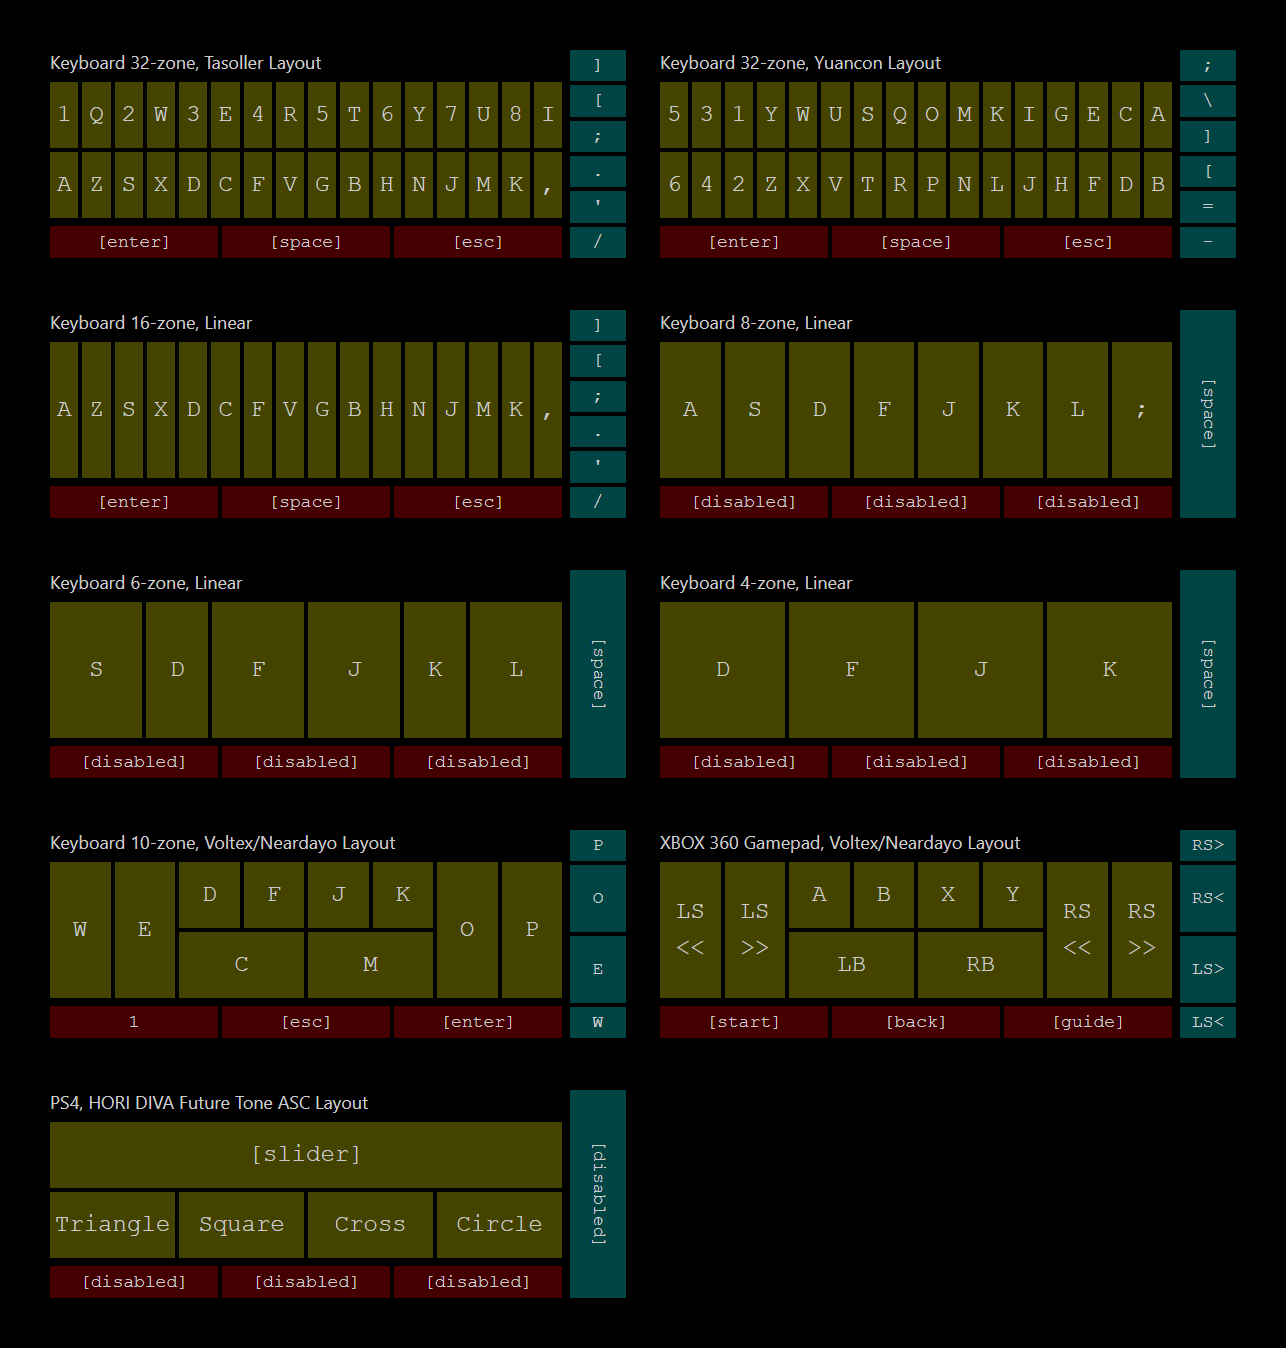
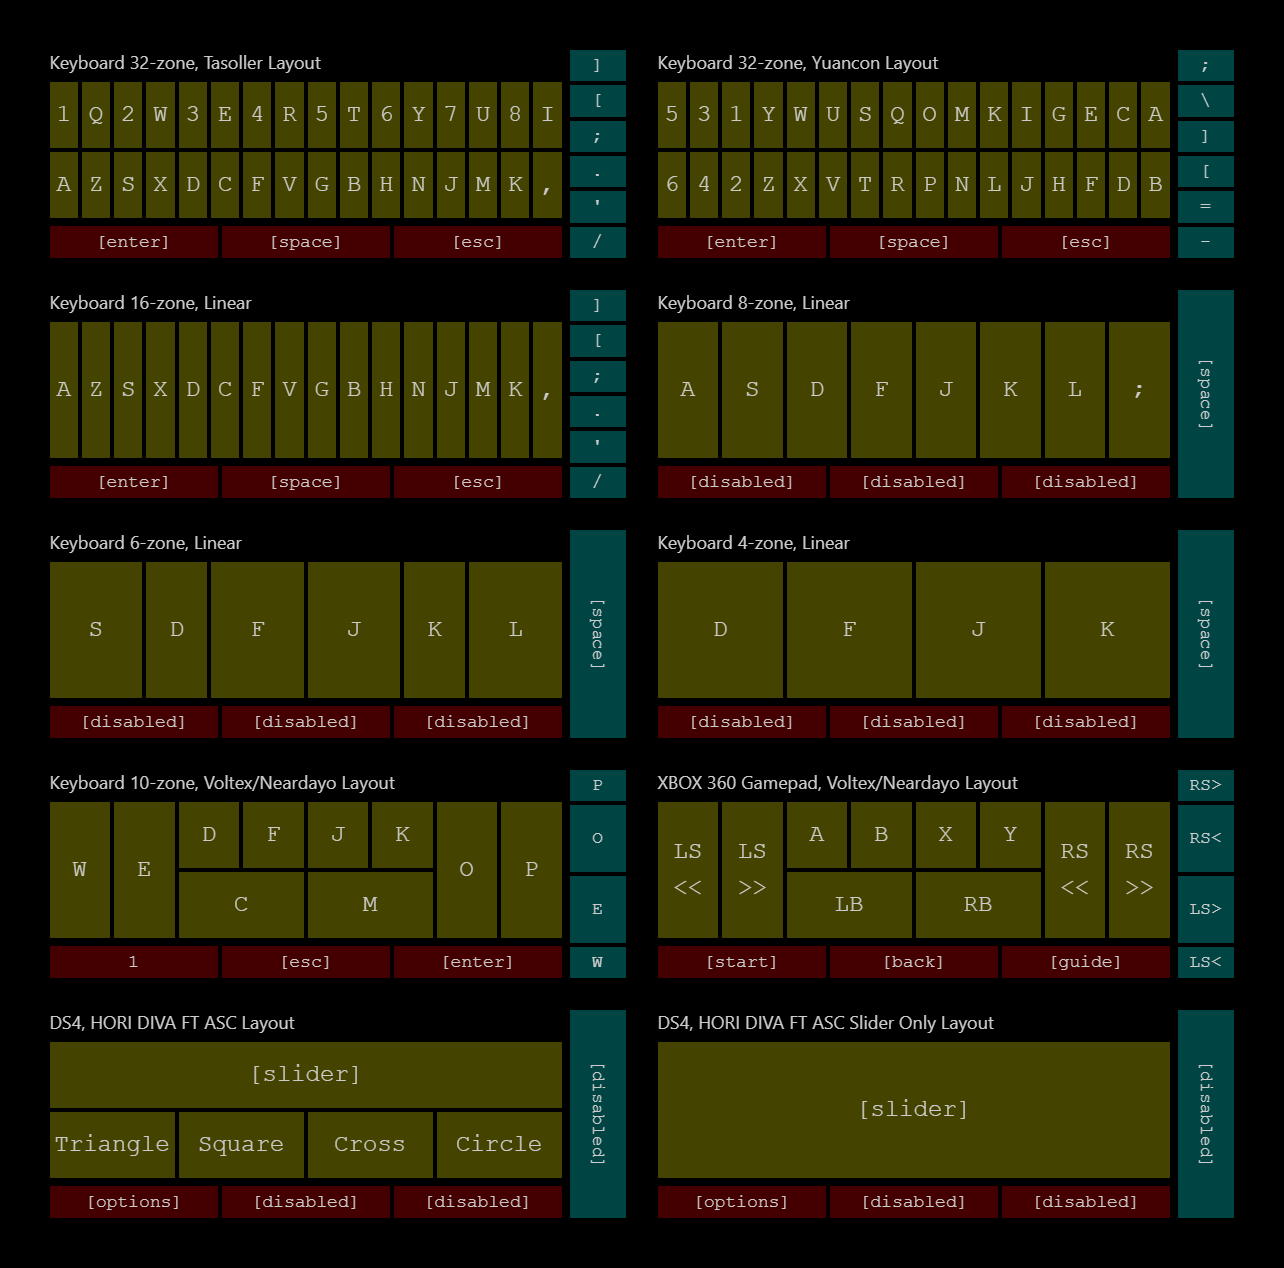
update readme and bump version

diff --git a/res/layouts/index.html b/res/layouts/index.html
@@ -7,8 +7,8 @@
     <style>
       body {
         max-width: 1200px;
-        margin: 40px auto;
-        padding: 0 10px;
+        margin: 2rem auto;
+        padding: 0 1rem;
         font: 18px/1.5 -apple-system, BlinkMacSystemFont, "Segoe UI", Roboto,
           "Helvetica Neue", Arial, "Noto Sans", sans-serif, "Apple Color Emoji",
           "Segoe UI Emoji", "Segoe UI Symbol", "Noto Color Emoji";
@@ -16,7 +16,7 @@
 
         display: grid;
         grid-template-columns: repeat(2, 1fr);
-        gap: 20px;
+        gap: 1rem;
       }
       h1,
       h2,
@@ -41,7 +41,7 @@
 
         width: 36rem;
         height: 13rem;
-        margin-bottom: 2rem;
+        margin-bottom: 1rem;
 
         gap: 0.5rem;
 
@@ -99,6 +99,10 @@
 
       .ground.ground-4 {
         grid: repeat(1, 1fr) / repeat(4, 1fr);
+      }
+
+      .ground.ground-1 {
+        grid: repeat(1, 1fr) / repeat(1, 1fr);
       }
 
       .ground.ground-voltex {
@@ -425,7 +429,7 @@
       </div>
     </div>
     <div class="layout">
-      <div class="name">PS4, HORI DIVA Future Tone ASC Layout</div>
+      <div class="name">DS4, HORI DIVA FT ASC Layout</div>
       <div class="ground ground-diva">
         <div style="grid-area: sl">[slider]</div>
         <div style="grid-area: a">Triangle</div>
@@ -439,7 +443,23 @@
         </div>
       </div>
       <div class="extra">
+        <div>[options]</div>
         <div>[disabled]</div>
+        <div>[disabled]</div>
+      </div>
+    </div>
+    <div class="layout">
+      <div class="name">DS4, HORI DIVA FT ASC Slider Only Layout</div>
+      <div class="ground ground-1">
+        <div>[slider]</div>
+      </div>
+      <div class="air air-single">
+        <div>
+          <span style="writing-mode: vertical-lr">[disabled]</span>
+        </div>
+      </div>
+      <div class="extra">
+        <div>[options]</div>
         <div>[disabled]</div>
         <div>[disabled]</div>
       </div>

diff --git a/README.md b/README.md
@@ -12,6 +12,9 @@ Software adapter for various Chunithm slider controllers with a built-in Brokeni
 
 ## Changelog
 
+- v0.2.8
+  - Add slider only layout (no buttons) for Project Diva gamepad output
+  - Add options button to Project Diva gamepad output
 - v0.2.7
   - Add HORI Project Diva gamepad output and lighting mode
 - v0.2.6
